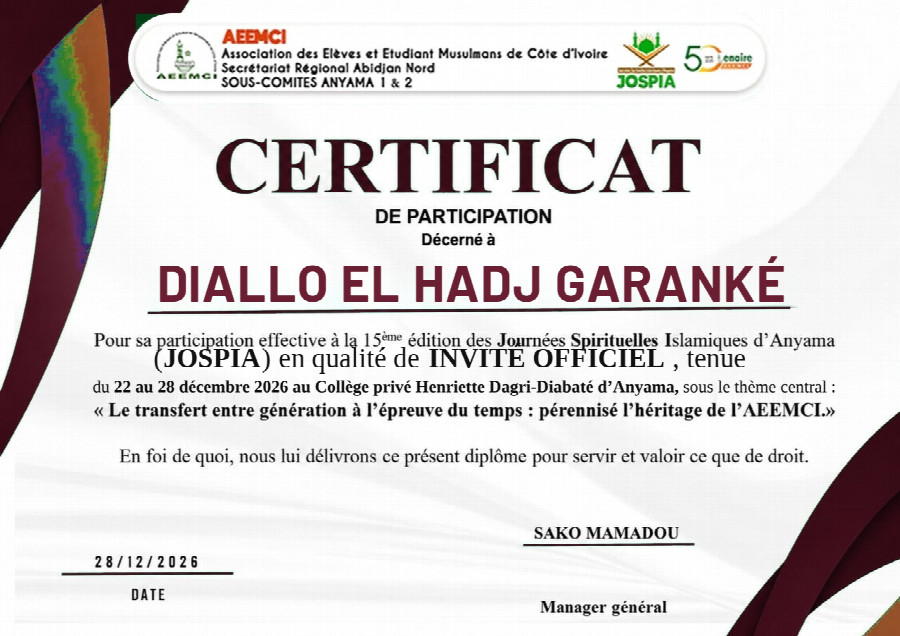
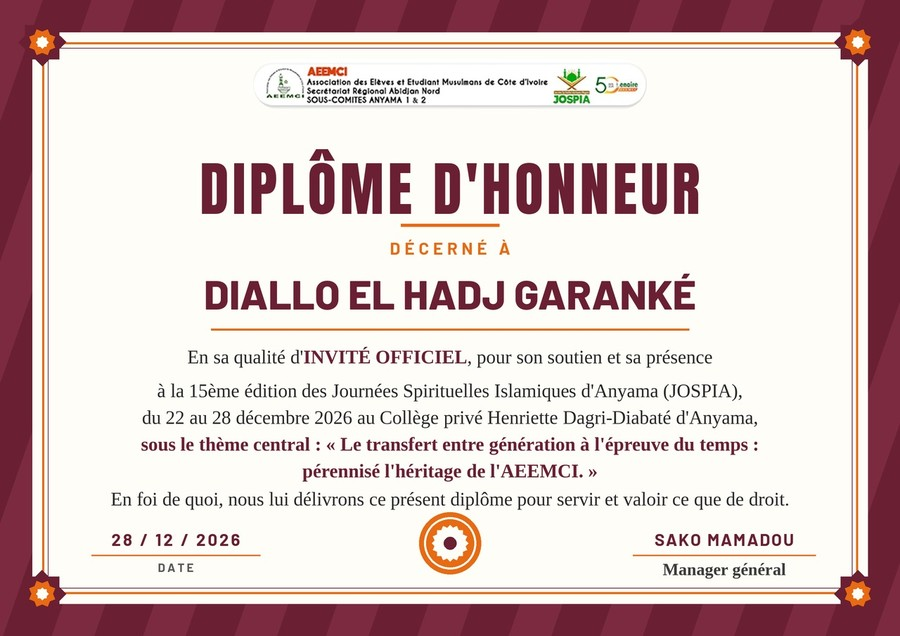
Présentation Administration : retrait des domaines suivis, couleurs initiales conservées, nouveau design du diplôme des officiels
Claude-Session: https://claude.ai/code/session_01KoR57eyK1Tu3mM4eFj1smP

diff --git a/admin/presentation_administration.php b/admin/presentation_administration.php
@@ -33,12 +33,12 @@ function afficherActivite($num, $nom, $sous, $obj, $labelR, $res, $labelO = 'OBJ
   </div></section>
 <?php }
 function afficherVariantes($num, $nom, $dossier, $cle, $vars, $ext = 'webp', $paysage = false) { ?>
-  <section class="slide" data-steps="4"><div class="contenu">
+  <section class="slide" data-steps="<?= count($vars) + 1 ?>"><div class="contenu">
     <div class="entete">
       <?php if ($num !== ''): ?><span class="n"><?= e($num) ?></span><?php endif; ?>
       <h2 class="degrade"><?= mots($nom) ?></h2>
     </div>
-    <div class="revs<?= $paysage ? ' paysage' : '' ?>">
+    <div class="revs<?= $paysage ? ' paysage' : '' ?> n<?= count($vars) ?>">
       <?php foreach ($vars as $k => [$f, $lib, $coul, $hex]): ?>
       <figure class="rev" style="--k:<?= $k ?>">
         <img src="<?= BASE_URL ?>/assets/img/pres/<?= e($dossier) ?>/<?= e($cle) ?>_<?= e($f) ?>.<?= e($ext) ?>" <?= $paysage ? 'width="900" height="636"' : 'width="638" height="1016"' ?> alt="<?= e($nom) ?> — <?= e($coul) ?>">
@@ -179,6 +179,8 @@ html,body{width:100%;height:100%;max-width:100%;overflow:hidden;overscroll-behav
 .rev{flex:0 1 31%;max-width:300px;text-align:center;opacity:0;transform:translateY(46px) scale(.94);transition:opacity .7s,transform .8s cubic-bezier(.2,.8,.2,1)}
 .rev.on{opacity:1;transform:none}
 .revs.paysage{gap:clamp(8px,1.6vw,20px)}.revs.paysage .rev{flex-basis:32%;max-width:400px}.revs.paysage .rev img{max-height:calc(var(--vh)*40);border-radius:8px}
+.revs.n4:not(.paysage) .rev{flex-basis:23.5%;max-width:250px}
+.revs.paysage.n4{flex-wrap:wrap;width:min(100%,calc(var(--vh)*118));margin-left:auto;margin-right:auto;row-gap:10px}.revs.paysage.n4 .rev{flex-basis:46%;max-width:none}.revs.paysage.n4 .rev img{max-height:calc(var(--vh)*30)}
 .rev img{display:block;width:100%;height:auto;max-height:calc(var(--vh)*52);object-fit:contain;border-radius:16px;background:#fff;box-shadow:0 16px 36px rgba(20,48,31,.22);border:1px solid #e3efe8}
 .rev figcaption{display:flex;align-items:center;justify-content:center;gap:8px;margin-top:12px;font-size:clamp(12px,min(1.5vw,calc(var(--vh)*2.6)),18px);flex-wrap:wrap}
 .rev figcaption i{width:14px;height:14px;border-radius:50%;box-shadow:0 0 0 3px rgba(20,48,31,.1)}
@@ -255,12 +257,14 @@ html,body{width:100%;height:100%;max-width:100%;overflow:hidden;overscroll-behav
     <div class="trait"></div>
   </div></section>
   <?php
+  $AC = ['actuel', 'Version actuelle', 'Orange et vert (initial)', '#F28B1E'];
   $BT = [['petrole', 'Proposition 1', 'Bleu pétrole', '#003E4D'], ['vert', 'Proposition 2', 'Vert profond', '#385747'], ['nuit', 'Proposition 3', 'Bleu nuit', '#1B2F6B']];
+  $BA = array_merge([$AC], $BT);
   $OF = [['petrole', 'Proposition 1', 'Bleu pétrole', '#003E4D'], ['bordeaux', 'Proposition 2', 'Bordeaux', '#6B1F33'], ['anthracite', 'Proposition 3', 'Anthracite', '#2B2F33']];
-  afficherVariantes('I-', 'RÉALISATIONS : LE BADGE DU SÉMINARISTE', 'badges', 'seminariste', $BT);
-  afficherVariantes('', 'RÉALISATIONS : LE BADGE DES MEMBRES DE COMMISSION', 'badges', 'commission', $BT);
-  afficherVariantes('', 'RÉALISATIONS : LE DIPLÔME DES MEMBRES DE COMMISSION', 'diplomes', 'commission', $BT, 'jpg', true);
-  afficherVariantes('', 'RÉALISATIONS : LE DIPLÔME DU SÉMINARISTE', 'diplomes', 'seminariste', $BT, 'jpg', true);
+  afficherVariantes('I-', 'RÉALISATIONS : LE BADGE DU SÉMINARISTE', 'badges', 'seminariste', $BA);
+  afficherVariantes('', 'RÉALISATIONS : LE BADGE DES MEMBRES DE COMMISSION', 'badges', 'commission', $BA);
+  afficherVariantes('', 'RÉALISATIONS : LE DIPLÔME DES MEMBRES DE COMMISSION', 'diplomes', 'commission', $BA, 'jpg', true);
+  afficherVariantes('', 'RÉALISATIONS : LE DIPLÔME DU SÉMINARISTE', 'diplomes', 'seminariste', $BA, 'jpg', true);
   afficherVariantes('', 'RÉALISATIONS : LE DIPLÔME DES OFFICIELS', 'diplomes', 'officiel', $OF, 'jpg', true);
   ?>
   <?php foreach ($slidesAdmin as [$num, $nom, $res, $gras, $deux]) { afficherActivite($num, $nom, '', [], '', $res, '', $gras, $deux); } ?>

diff --git a/includes/presentation_admin.php b/includes/presentation_admin.php
@@ -53,12 +53,6 @@ function presAdminChiffres() {
 /** Diapositives de contenu : [numéro, titre, lignes, gras, deux colonnes]. Les rubriques vides sont ignorées. */
 function presAdminDiapositives(array $contenu, array $chiffres) {
     $s = [];
-    $s[] = ['', 'LES DOMAINES SUIVIS PAR LA COMMISSION', [
-        'Membres de commission : enregistrement, liste, badges et diplômes ;',
-        'Séminaristes : inscription, fiches, badges et diplômes ;',
-        'Identifiants : retrouver un identifiant ou réinitialiser un mot de passe ;',
-        'Dortoirs : occupation et capacité, listes nominatives par dortoir et par niveau (export Excel).',
-    ], false, false];
     $ch = [];
     foreach ($chiffres as $lib => $v) { if ($v !== null) $ch[] = $lib . ' : ' . number_format($v, 0, ',', ' '); }
     if ($ch) $s[] = ['', 'LA COMMISSION EN CHIFFRES', $ch, true, false];
